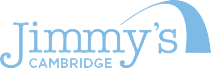
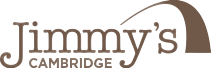
Color scheming

Changed region(s): [[0.0, 0.0, 1.0, 1.0]]

diff --git a/layouts/partials/about.html b/layouts/partials/about.html
@@ -6,39 +6,39 @@
             <div class="row" style="float:none">
                 <center class = "pushdown" style="float:none;position:relative;min-height:325px"><div class="hero-area" style="width: 80%;height: 50px; margin-top: 0px;display:block">
                     <div class="wow zoomIn countdownWidget" style="width: 60vw; display:block;margin: auto;">
-                    <div class="block" style="background-color:#aec1c3; color:#bc9c87;height:10%">
+                    <div class="block" style="background-color:#aec1c3; color:#71594A;height:10%">
                         <div class="counter text-center">
                             <ul id="countdown_dashboard" data-year="{{ with .Site.Params.hero.countdownYear }} {{ . }}{{ end }}" data-month="{{ with .Site.Params.hero.countdownMonth }} {{ . }}{{ end }}" data-day="{{ with .Site.Params.hero.countdownDay }} {{ . }}{{ end }}">
                                 <li style="width:23%">
                                     <div class="dash days_dash">
-                                        <div class="digit" style="color:#bc9c87;font-size:3vw">0</div>
-                                        <div class="digit" style="color:#bc9c87;font-size:3vw">0</div>
-                                        <div class="digit"style="color:#bc9c87;font-size:3vw">0</div>
-                                        <span class="dash_title dash_move_3" style="color:#bc9c87;font-size:2vw;position:relative">{{i18n "days" }}</span>
+                                        <div class="digit" style="color:#71594A;font-size:3vw">0</div>
+                                        <div class="digit" style="color:#71594A;font-size:3vw">0</div>
+                                        <div class="digit"style="color:#71594A;font-size:3vw">0</div>
+                                        <span class="dash_title dash_move_3" style="color:#71594A;font-size:2vw;position:relative">{{i18n "days" }}</span>
                                     </div>
                                 </li>
                                 <li style="width:23%">
                                     <div class="dash hours_dash">
-                                        <div class="digit" style="color:#bc9c87;font-size:3vw">0</div>
-                                        <div class="digit" style="color:#bc9c87;font-size:3vw">0</div>
-                                        <div class="digit" style="color:#bc9c87;font-size:3vw">0</div>
-                                        <span class="dash_title dash_move_2" style="color:#bc9c87;font-size:2vw;position:relative">{{i18n "hours" }}</span>
+                                        <div class="digit" style="color:#71594A;font-size:3vw">0</div>
+                                        <div class="digit" style="color:#71594A;font-size:3vw">0</div>
+                                        <div class="digit" style="color:#71594A;font-size:3vw">0</div>
+                                        <span class="dash_title dash_move_2" style="color:#71594A;font-size:2vw;position:relative">{{i18n "hours" }}</span>
                                     </div>
                                 </li>
                                 <li style="width:23%">
                                     <div class="dash minutes_dash">
-                                        <div class="digit" style="color:#bc9c87;font-size:3vw">0</div>
-                                        <div class="digit" style="color:#bc9c87;font-size:3vw">0</div>
-                                        <div class="digit" style="color:#bc9c87;font-size:3vw">0</div>
-                                        <span class="dash_title dash_move_1" style="color:#bc9c87;font-size:2vw;position:relative;left:-20px">{{i18n "minutes" }}</span>
+                                        <div class="digit" style="color:#71594A;font-size:3vw">0</div>
+                                        <div class="digit" style="color:#71594A;font-size:3vw">0</div>
+                                        <div class="digit" style="color:#71594A;font-size:3vw">0</div>
+                                        <span class="dash_title dash_move_1" style="color:#71594A;font-size:2vw;position:relative;left:-20px">{{i18n "minutes" }}</span>
                                     </div>
                                 </li>
                                 <li style="width:23%">
                                     <div class="dash seconds_dash">
-                                        <div class="digit" style="color:#bc9c87;font-size:3vw">0</div>
-                                        <div class="digit" style="color:#bc9c87;font-size:3vw">0</div>
-                                        <div class="digit" style="color:#bc9c87;font-size:3vw">0</div>
-                                        <span class="dash_title dash_move_1" style="color:#bc9c87;font-size:2vw;position:relative;left:-20px">{{i18n "seconds" }}</span>
+                                        <div class="digit" style="color:#71594A;font-size:3vw">0</div>
+                                        <div class="digit" style="color:#71594A;font-size:3vw">0</div>
+                                        <div class="digit" style="color:#71594A;font-size:3vw">0</div>
+                                        <span class="dash_title dash_move_1" style="color:#71594A;font-size:2vw;position:relative;left:-20px">{{i18n "seconds" }}</span>
                                     </div>
                                 </li>
                             </ul>

diff --git a/layouts/partials/call-to-action.html b/layouts/partials/call-to-action.html
@@ -2,7 +2,7 @@
     {{"<!-- Call To Action Section -->" | safeHTML}}
     <!--<section class="call-to-action" style='background-image: url("{{ with .Site.Params.cta.bg }}{{.}}{{ end }}")' >-->
         <span id = "call-to-action" style="position:absolute; bottom:-42cm"></span>
-        <section class="call-to-action" style="background-color: #e9e598;">
+        <section class="call-to-action" style="background-color: #aec1c3;">
         <div class="container">
             <div class="row">
                 <div class="col-md-12 wow text-center">

diff --git a/layouts/partials/charity.html b/layouts/partials/charity.html
@@ -2,7 +2,7 @@
     {{"<!-- Call To Action Section -->" | safeHTML}}
     <!--<section class="call-to-action" style='background-image: url("{{ with .Site.Params.cta.bg }}{{.}}{{ end }}")' >-->
         <span id = "call-to-action" style="position:absolute; bottom:-42cm"></span>
-        <section class="call-to-action" style="background-color: #e9e598;">
+        <section class="call-to-action" style="background-color: #aec1c3;">
         <div class="container">
             <div class="row">
                 <div class="col-md-12 wow text-center">

diff --git a/layouts/partials/service.html b/layouts/partials/service.html
@@ -1,7 +1,7 @@
 {{ if .Site.Params.service.enable }}
     {{"<!-- Service Section -->" | safeHTML}}
     <span id = "service" style="position:absolute; bottom:-8cm"></span>
-    <section class="service section" style="background-color: #e9e598;">
+    <section class="service section" style="background-color: #aec1c3;">
         <div class="container">
             <div class="row">
                 <div class="heading wow fadeInUp">

diff --git a/layouts/partials/footer.html b/layouts/partials/footer.html
@@ -1,4 +1,4 @@
-<footer style="background-color: #e9e598;">
+<footer style="background-color: #aec1c3;">
     <div class="container" >
         <div class="row">
             <div class="col-md-12">
